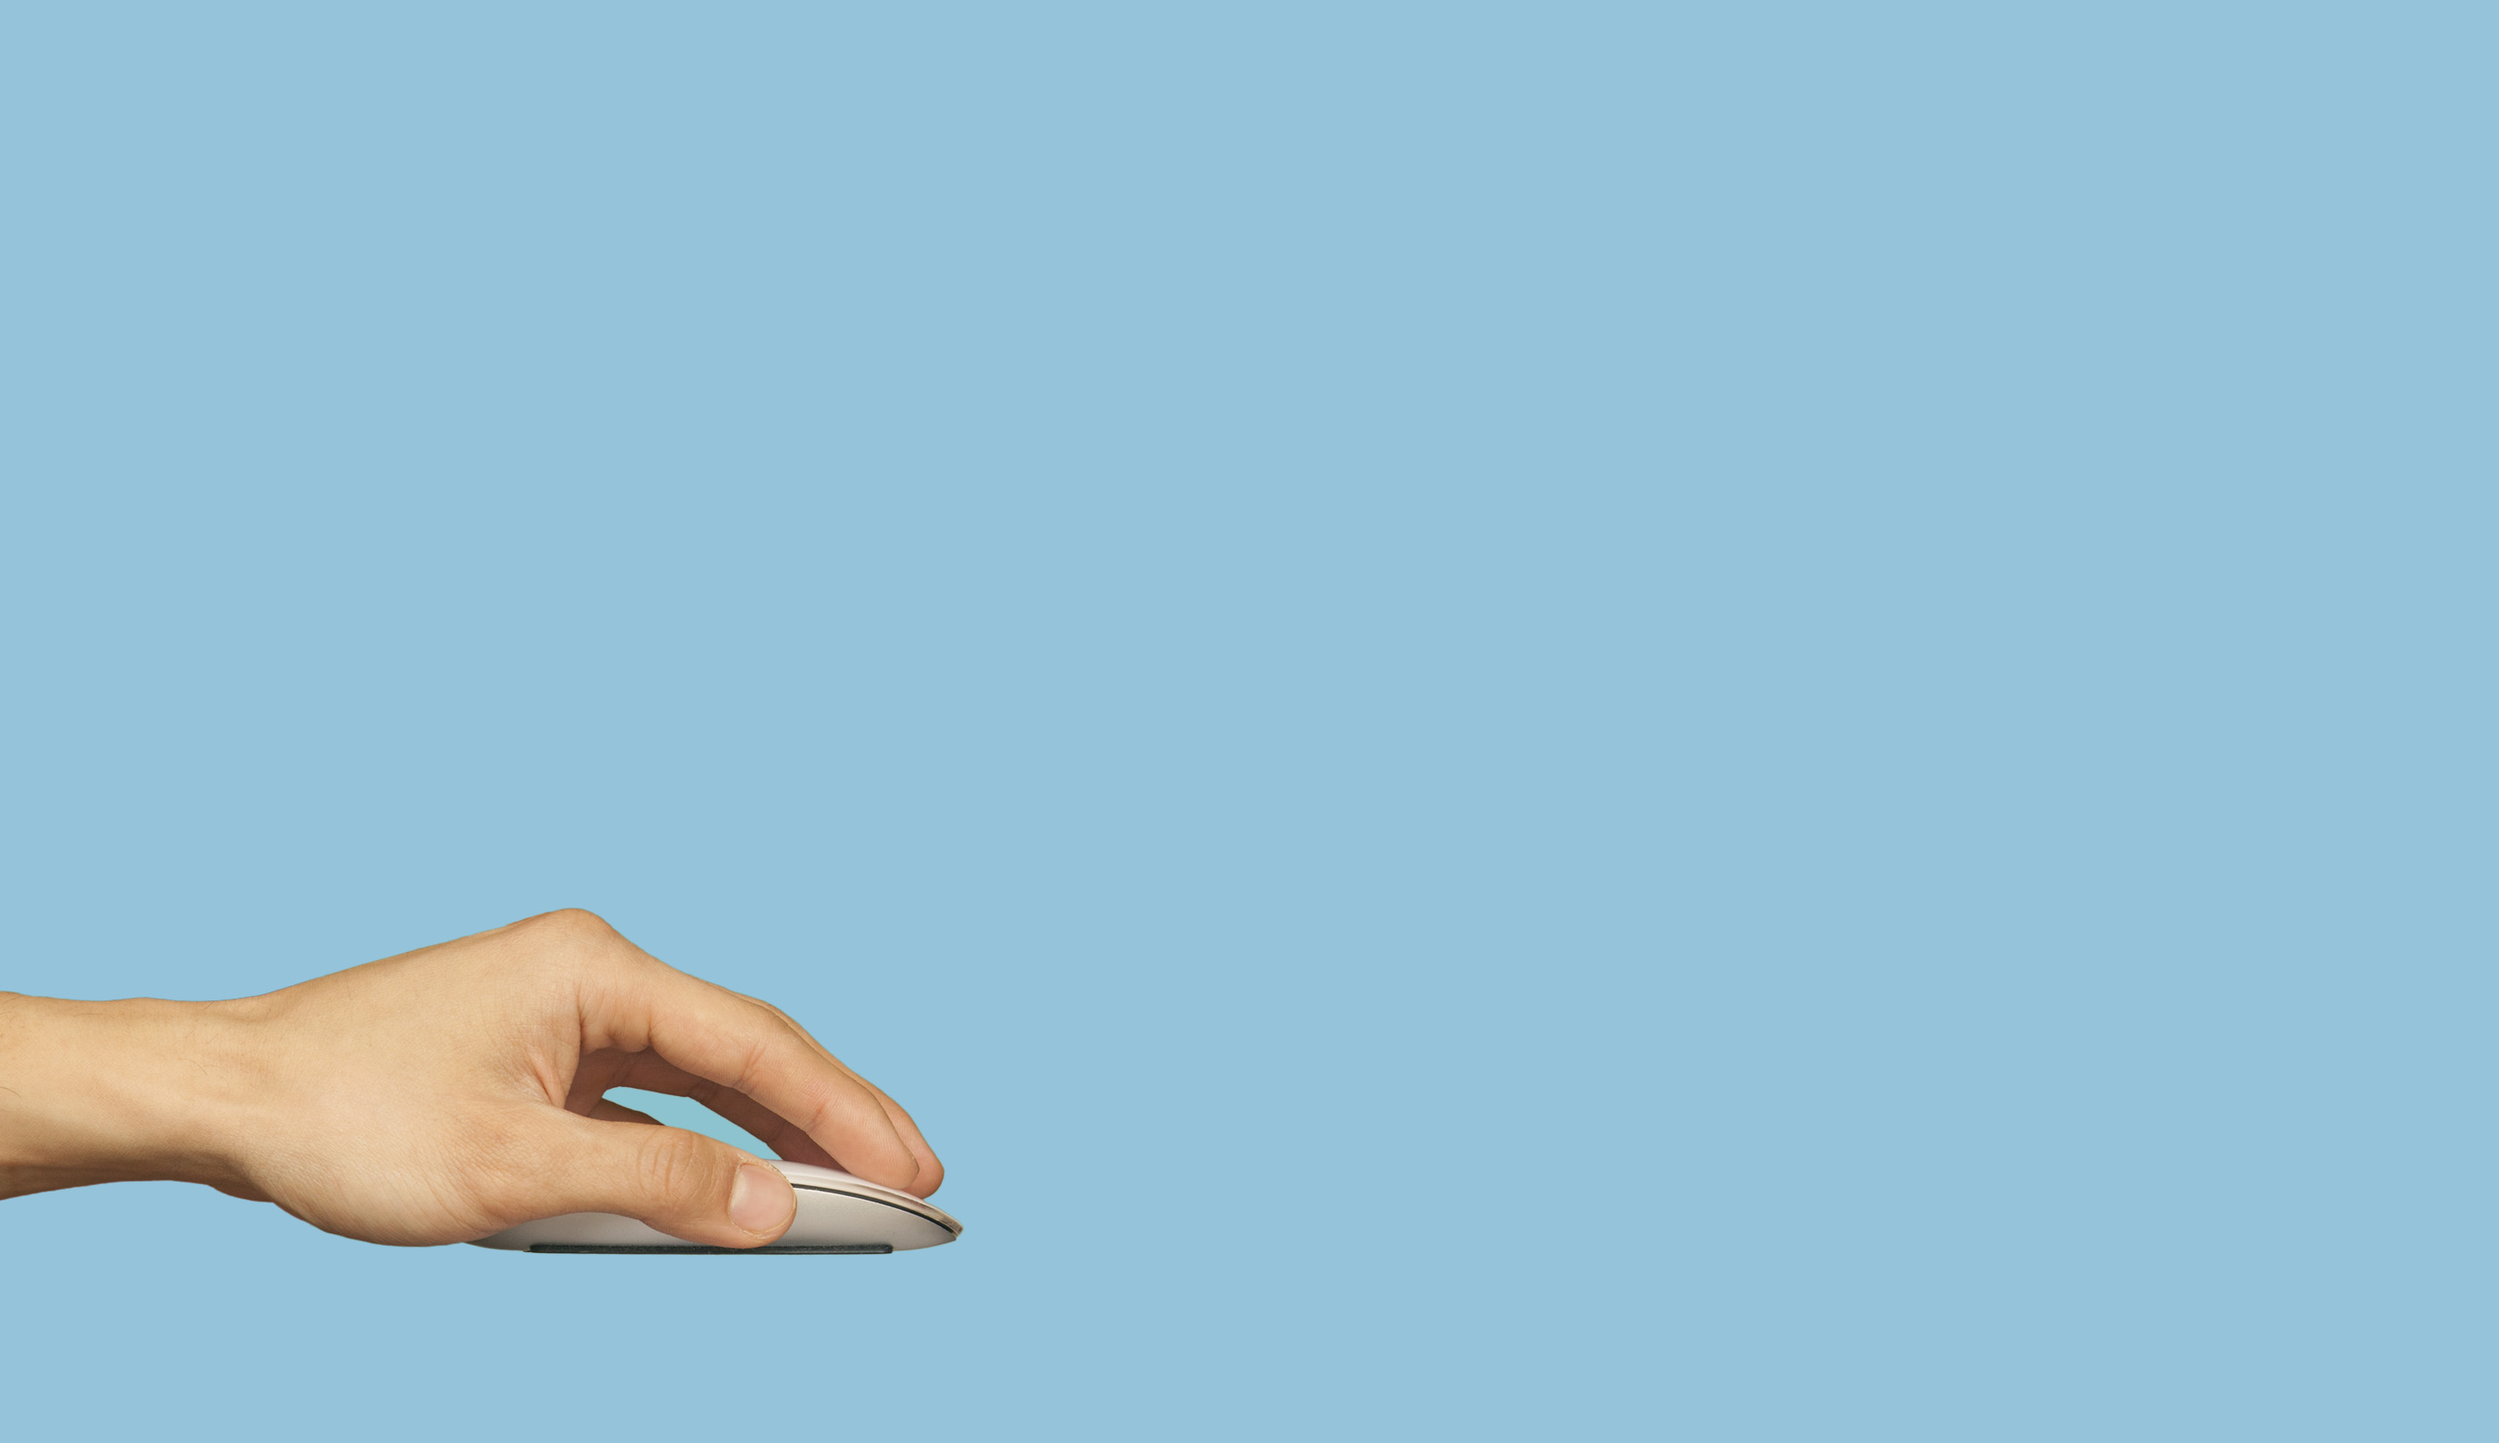
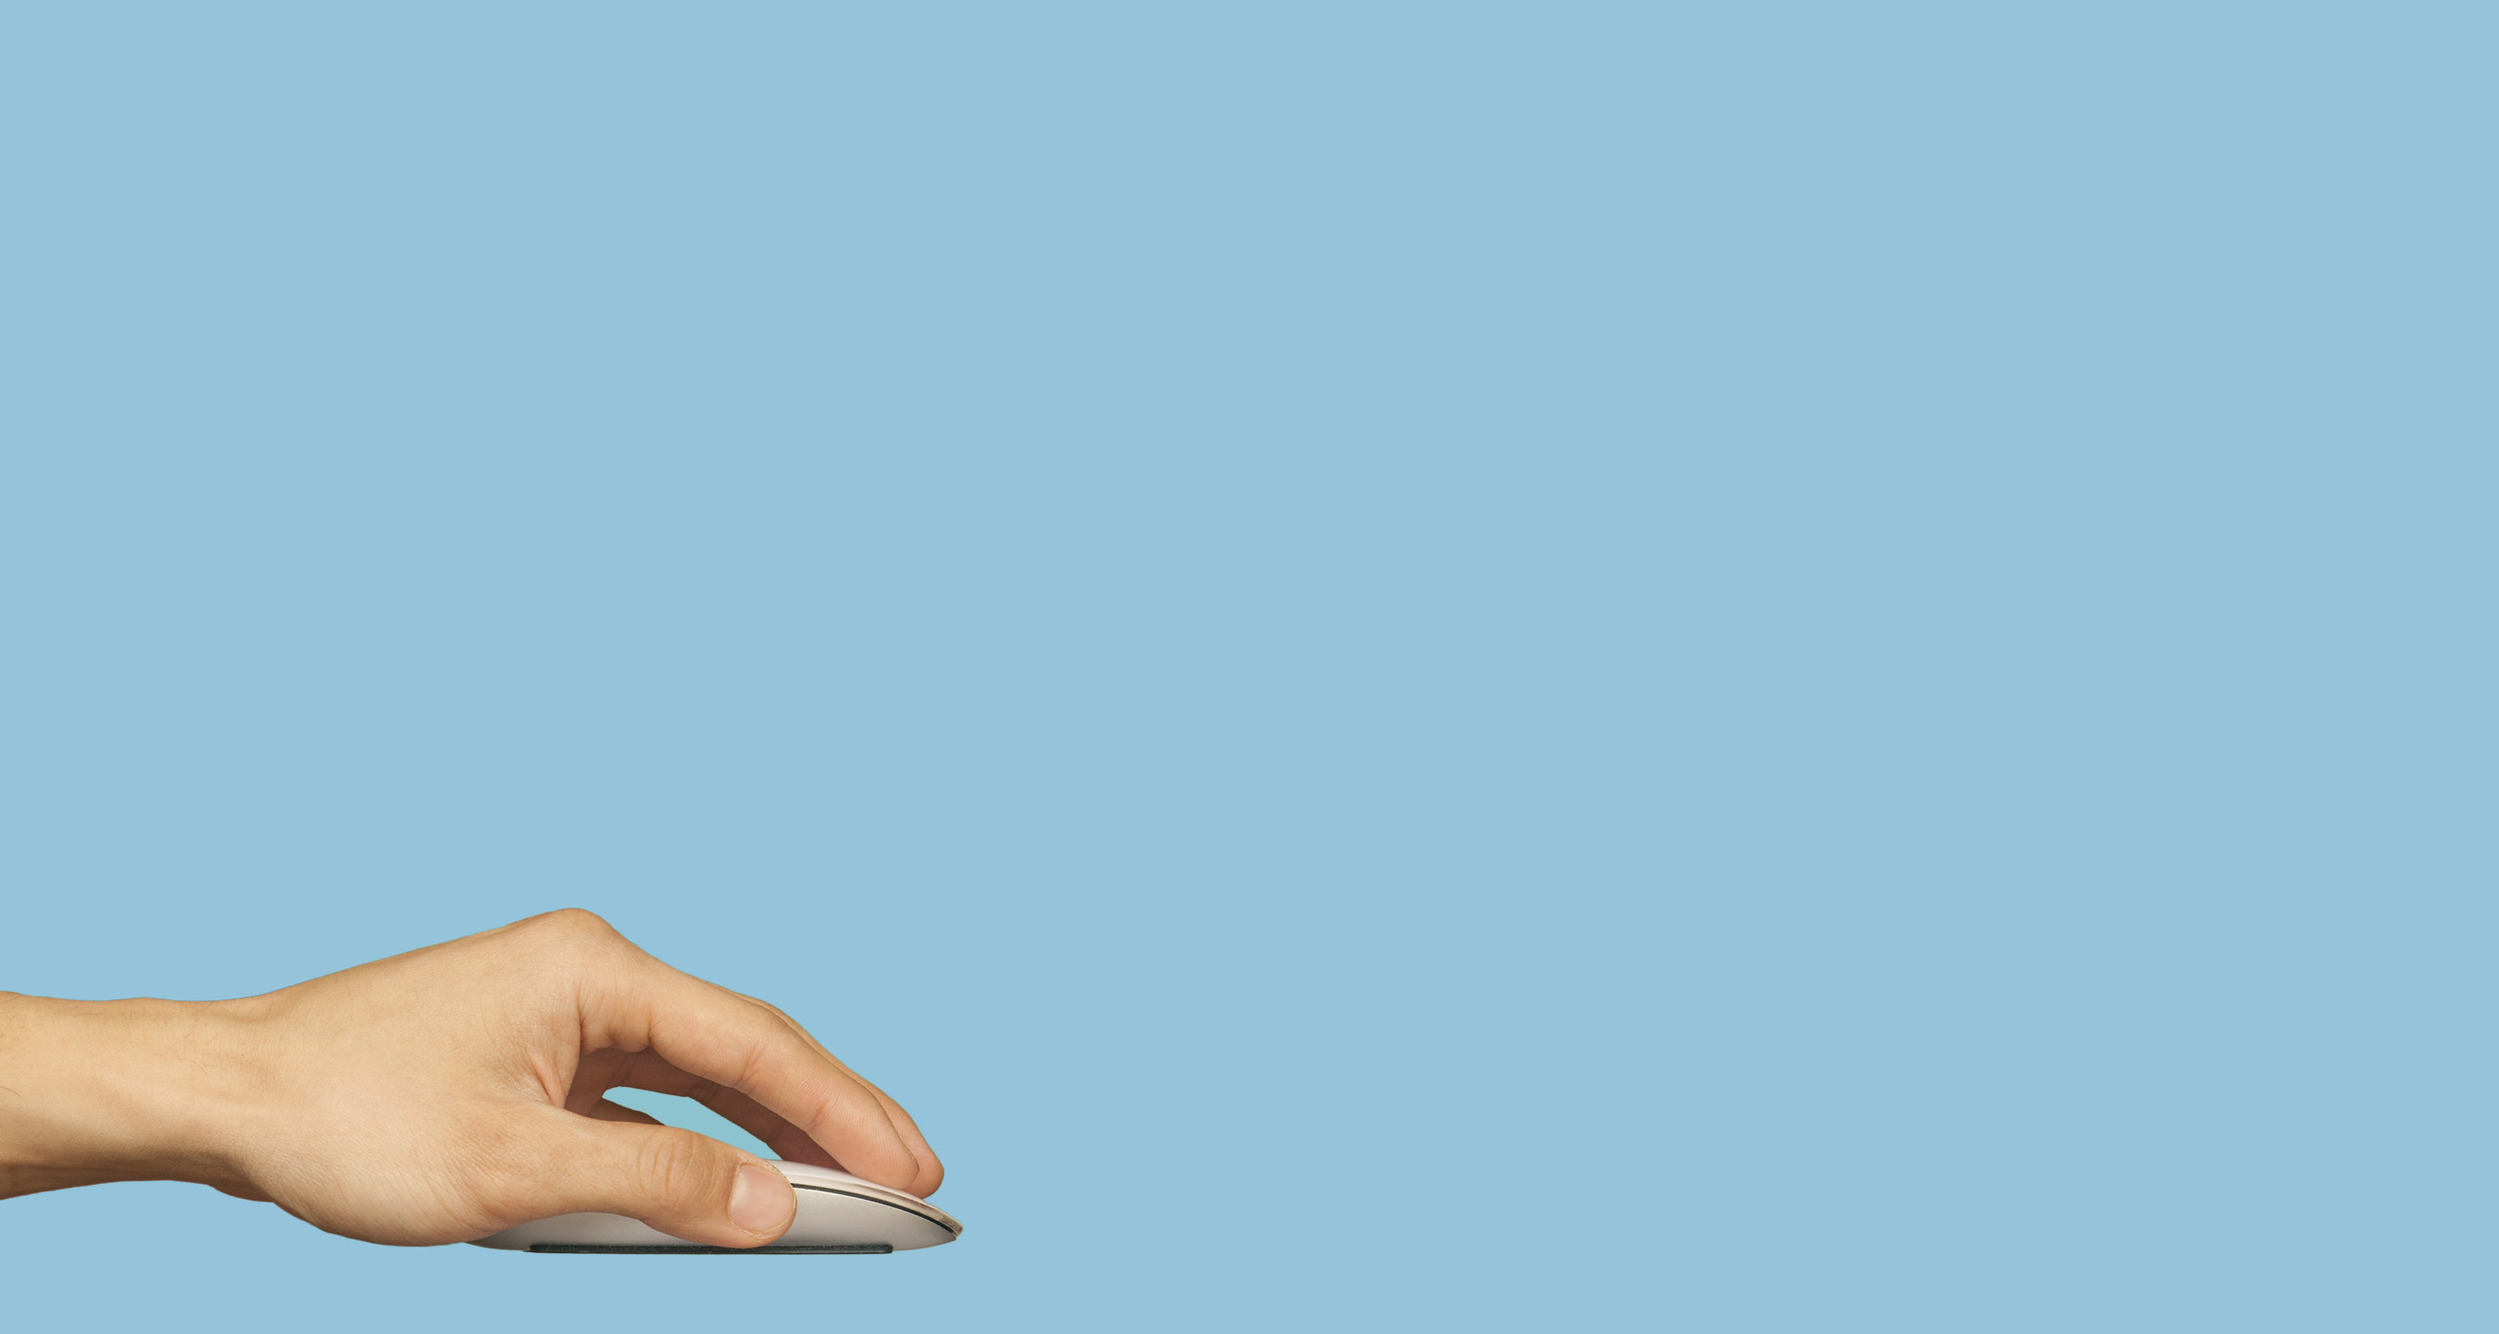
change header size for home, design changes, reroute stripe for end, create user on event create, tighten ends

Changed region(s): [[0.0, 0.6154, 0.4039, 0.9538]]

diff --git a/app/assets/stylesheets/static_pages.css.scss b/app/assets/stylesheets/static_pages.css.scss
@@ -190,9 +190,9 @@ p {
 	.bg-container {
 		background-image: image-url("mousehand5.jpg");
 		background-size: $max-width auto;
-		background-position: center;
+		background-position: center bottom;
 		background-repeat: no-repeat;
-		height: 650px;
+		height: 600px;
 	
 		.container {
 			padding-bottom: 80px;
@@ -429,6 +429,8 @@ p {
 				}
 	
 				h2 {
+					font-weight: 600;
+					margin-bottom: 5px;
 					color: #fff !important;
 				}
 				h5 {

diff --git a/app/controllers/users_controller.rb b/app/controllers/users_controller.rb
@@ -26,18 +26,27 @@ class UsersController < ApplicationController
   def save_c
     @user = @_current_user
     @user.stripe_token = params[:stripeToken]
+    @user.email = params[:stripeEmail]
     @user.save_user_card
-    
-    render "users/update"
+    render "users/finish"
     
   rescue Stripe::CardError => e
     flash[:error] = e.message
+    
+    if @user.update_attributes(user_params)
+      @user.save
+      reset_session
+    else
+      render "users/save_c"
+      flash[:fail] = "Sorry there was an error processing your entries."
+    end
   end
   
   def update
     @user = @_current_user
     if @user.update_attributes(user_params)
       session[:current_user_id] = @user.id
+      render 'users/save_c'
     else
       render "users/create"
     end
@@ -58,6 +67,7 @@ class UsersController < ApplicationController
   private
   
   def user_params
-    params.require(:user).permit(:name, :email, :zipcode, :age, :insurance, :gender, :gender_pref, :description, :promo_code, :current_therapist, :current_therapist_name, :price)
+    params.require(:user).permit(:name, :email, :zipcode, :age, :insurance, :gender, :gender_pref, :description, :promo_code, :current_therapist, :current_therapist_name, :price, 
+    :stripe_token)
   end
 end

diff --git a/app/controllers/events_controller.rb b/app/controllers/events_controller.rb
@@ -1,10 +1,14 @@
 class EventsController < ApplicationController
   def create
-    @user = @_current_user
     @event = Event.create(event_params)
-    @event.user_id = @user.id
+    if @event.user_id.nil?
+      @user = @event.users.build(params[:user])
+    else
+      @user = @_current_user
+      @event.user_id = @user.id
+    end
     if @event.save
-      render 'users/save_c'
+      render 'users/update'
     else
       redirect_to :controller => 'therapists', :action => 'index', :messages => "error"
     end

diff --git a/app/models/user.rb b/app/models/user.rb
@@ -35,7 +35,6 @@ class User < ActiveRecord::Base
   
   def save_user_card
     customer = Stripe::Customer.create(
-      :email => self.email,
       :card => self.stripe_token
     )
     
